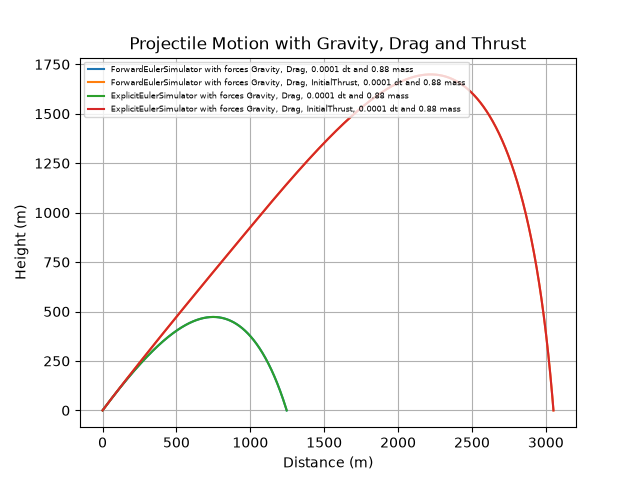
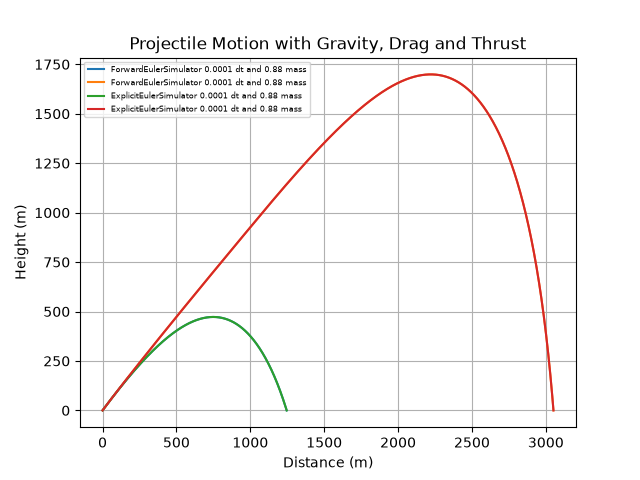
added combinedforces to combine forces and make the simulator accept only one force

Changed region(s): [[0.3125, 0.125, 0.75, 0.25]]

diff --git a/solution.py b/solution.py
@@ -202,6 +202,19 @@ class InitialThrust(Force):
 
         return 0.0, 0.0
 
+class CombinedForces(Force):
+    def __init__(self, forces):
+        self.forces=forces
+
+    def calculate(self, state:State):
+        forces = [
+            force.calculate(state)
+            for force in self.forces
+        ]
+
+        total_fx = sum(fx for fx, _ in forces)
+        total_fy = sum(fy for _, fy in forces)
+        return total_fx, total_fy       
 
 # The simulator contains the common simulation loop; subclasses define the integration method.
 class Simulator(ABC):
@@ -213,7 +226,7 @@ class Simulator(ABC):
 
     def __init__(
         self,
-        forces: list[Force],
+        force: Force,
         dt: float,
         mass: float,
         stop_condition: Callable[[State], bool]
@@ -221,12 +234,12 @@ class Simulator(ABC):
         """Initialize the simulator.
 
         Args:
-            forces: List of forces acting on the projectile.
+            force: Force acting on the projectile.
             dt: Simulation time step in seconds.
             mass: Projectile mass in kilograms.
             stop_condition: Function that determines when simulation stops.
         """
-        self.forces = forces
+        self.force = force
         self.dt = dt
         self.mass = mass
         self.stop_condition = stop_condition
@@ -251,13 +264,8 @@ class Simulator(ABC):
             A string containing the simulator type, forces, time step,
             and projectile mass.
         """
-        forces = ", ".join(
-            type(force).__name__ for force in self.forces
-        )
-
         return (
             f"{type(self).__name__} "
-            f"with forces {forces}, "
             f"{self.dt} dt and {self.mass:.2f} mass"
         )
 
@@ -346,18 +354,12 @@ class ForwardEulerSimulator(Simulator):
         Returns:
             The next projectile state.
         """
-        # Evaluate every force at the current state and time.
-        forces = [
-            force.calculate(state)
-            for force in self.forces
-        ]
-
-        total_fx = sum(fx for fx, _ in forces)
-        total_fy = sum(fy for _, fy in forces)
-
+        # Evaluate force at the current state and time.
+        fx, fy = self.force.calculate(state)
+        
         # Newton's second law: acceleration equals total force divided by mass.
-        ax = total_fx / self.mass
-        ay = total_fy / self.mass
+        ax = fx / self.mass
+        ay = fy / self.mass
 
         return State(
             state.t + self.dt,
@@ -385,18 +387,16 @@ class ExplicitEulerSimulator(Simulator):
         Returns:
             The next projectile state.
         """
-        # Evaluate every force at the current state and time.
-        forces = [
-            force.calculate(state)
-            for force in self.forces
-        ]
-
-        total_fx = sum(fx for fx, _ in forces)
-        total_fy = sum(fy for _, fy in forces)
+        # Evaluate force at the current state and time.
+        fx, fy = self.force.calculate(state)
+        
+        # Newton's second law: acceleration equals total force divided by mass.
+        ax = fx / self.mass
+        ay = fy / self.mass
 
         # Newton's second law: acceleration equals total force divided by mass.
-        ax = total_fx / self.mass
-        ay = total_fy / self.mass
+        ax = fx / self.mass
+        ay = fy / self.mass
 
         new_vx = state.vx + ax * self.dt
         new_vy = state.vy + ay * self.dt
@@ -473,28 +473,28 @@ def engine() -> None:
     """Create, run, and compare the projectile simulations."""
     simulators = [
         ForwardEulerSimulator(
-            forces=[gravity, drag],
+            force=CombinedForces([gravity, drag]),
             dt=DELTA_T,
             mass=MASS,
             stop_condition=STOP_CONDITION_HIT_GROUND
         ),
 
         ForwardEulerSimulator(
-            forces=[gravity, drag, initial_thrust],
+            force=CombinedForces([gravity, drag, initial_thrust]),
             dt=DELTA_T,
             mass=MASS,
             stop_condition=STOP_CONDITION_HIT_GROUND
         ),
 
         ExplicitEulerSimulator(
-            forces=[gravity, drag],
+            force=CombinedForces([gravity, drag]),
             dt=DELTA_T,
             mass=MASS,
             stop_condition=STOP_CONDITION_HIT_GROUND
         ),
 
         ExplicitEulerSimulator(
-            forces=[gravity, drag, initial_thrust],
+            force=CombinedForces([gravity, drag, initial_thrust]),
             dt=DELTA_T,
             mass=MASS,
             stop_condition=STOP_CONDITION_HIT_GROUND
